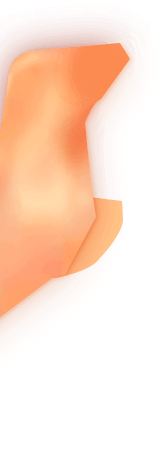
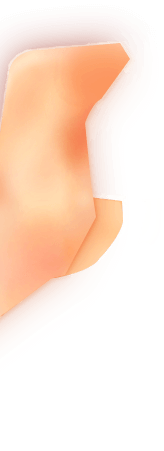
fix

diff --git a/css/index.css b/css/index.css
@@ -71,7 +71,7 @@ p {
   position: absolute;
   z-index: 5;
   left: 0;
-  bottom: -2.4rem;
+  bottom: -2.38666667rem;
   height: 6.01333333rem;
   width: 21.86666667%;
 }
@@ -83,7 +83,7 @@ p {
   position: absolute;
   z-index: 15;
   left: 0;
-  bottom: -1.68rem;
+  bottom: -1.72rem;
   height: 5.33333333rem;
   width: 3.01333333rem;
 }
@@ -96,7 +96,7 @@ p {
   z-index: 15;
   right: 0;
   top: -0.44rem;
-  height: 6.96rem;
+  height: 6.98666667rem;
   width: 2.65333333rem;
 }
 .content .right-hand img {
